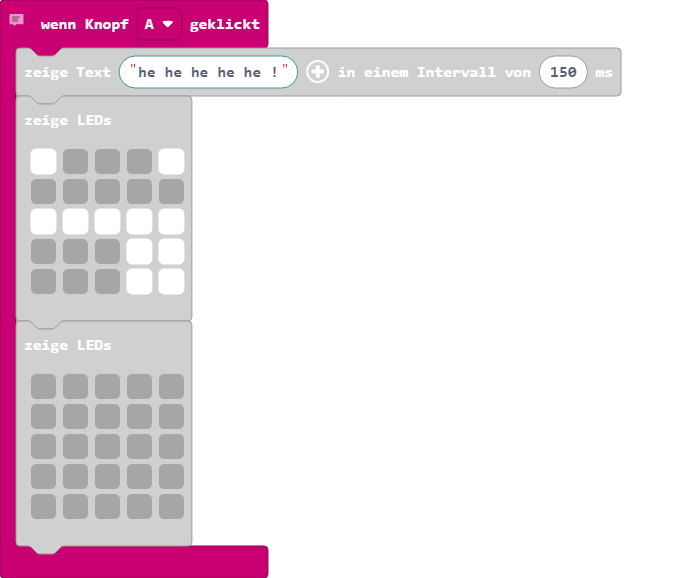
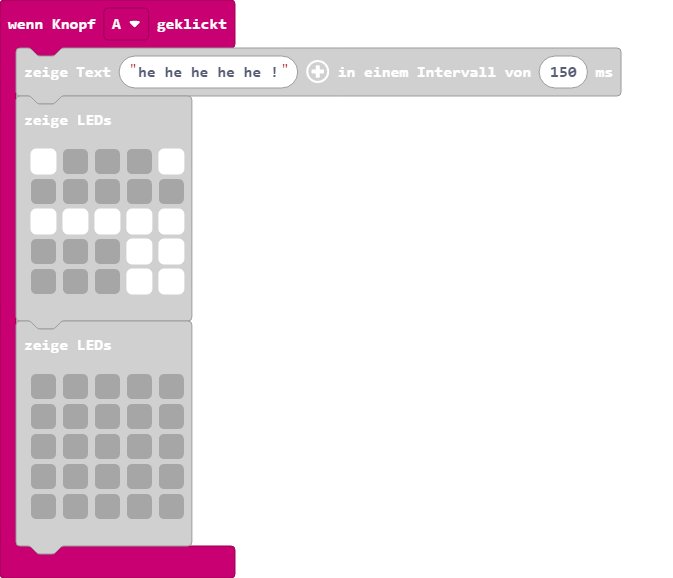
Aktualisiere main.blocks, main.ts

Changed region(s): [[0.0, 0.0, 0.4056, 0.1557], [0.3432, 0.9343, 0.4056, 1.0]]

diff --git a/main.ts b/main.ts
@@ -1,4 +1,3 @@
-// das ist tim
 input.onButtonPressed(Button.A, function () {
     basic.showString("he he he he he !")
     basic.showLeds(`
